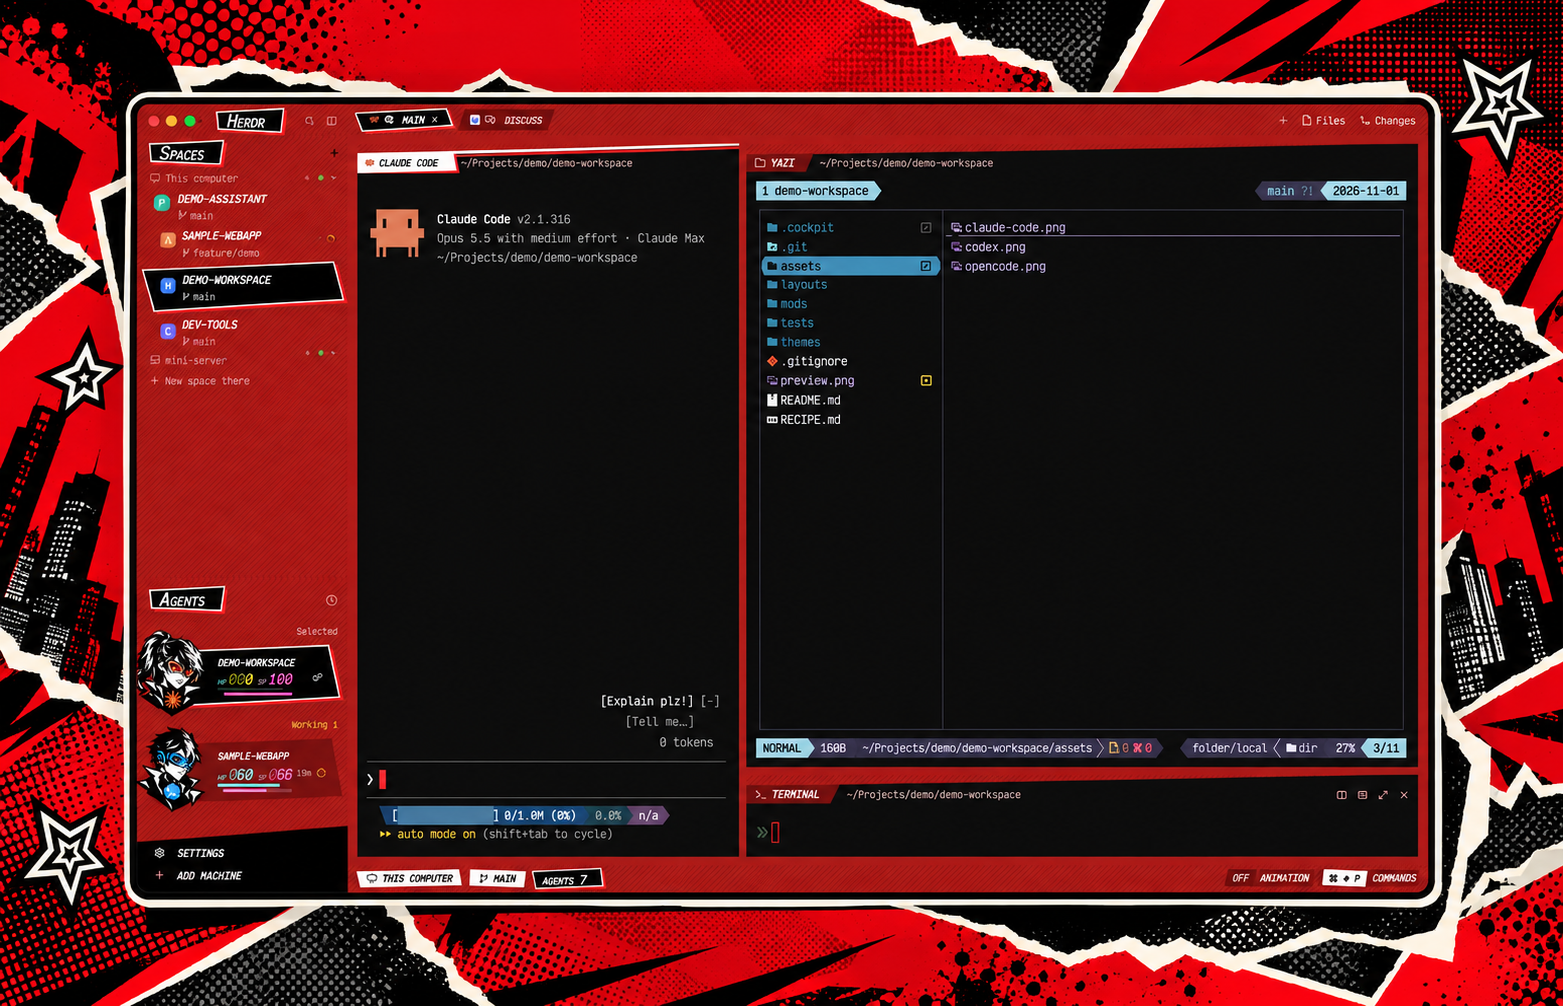
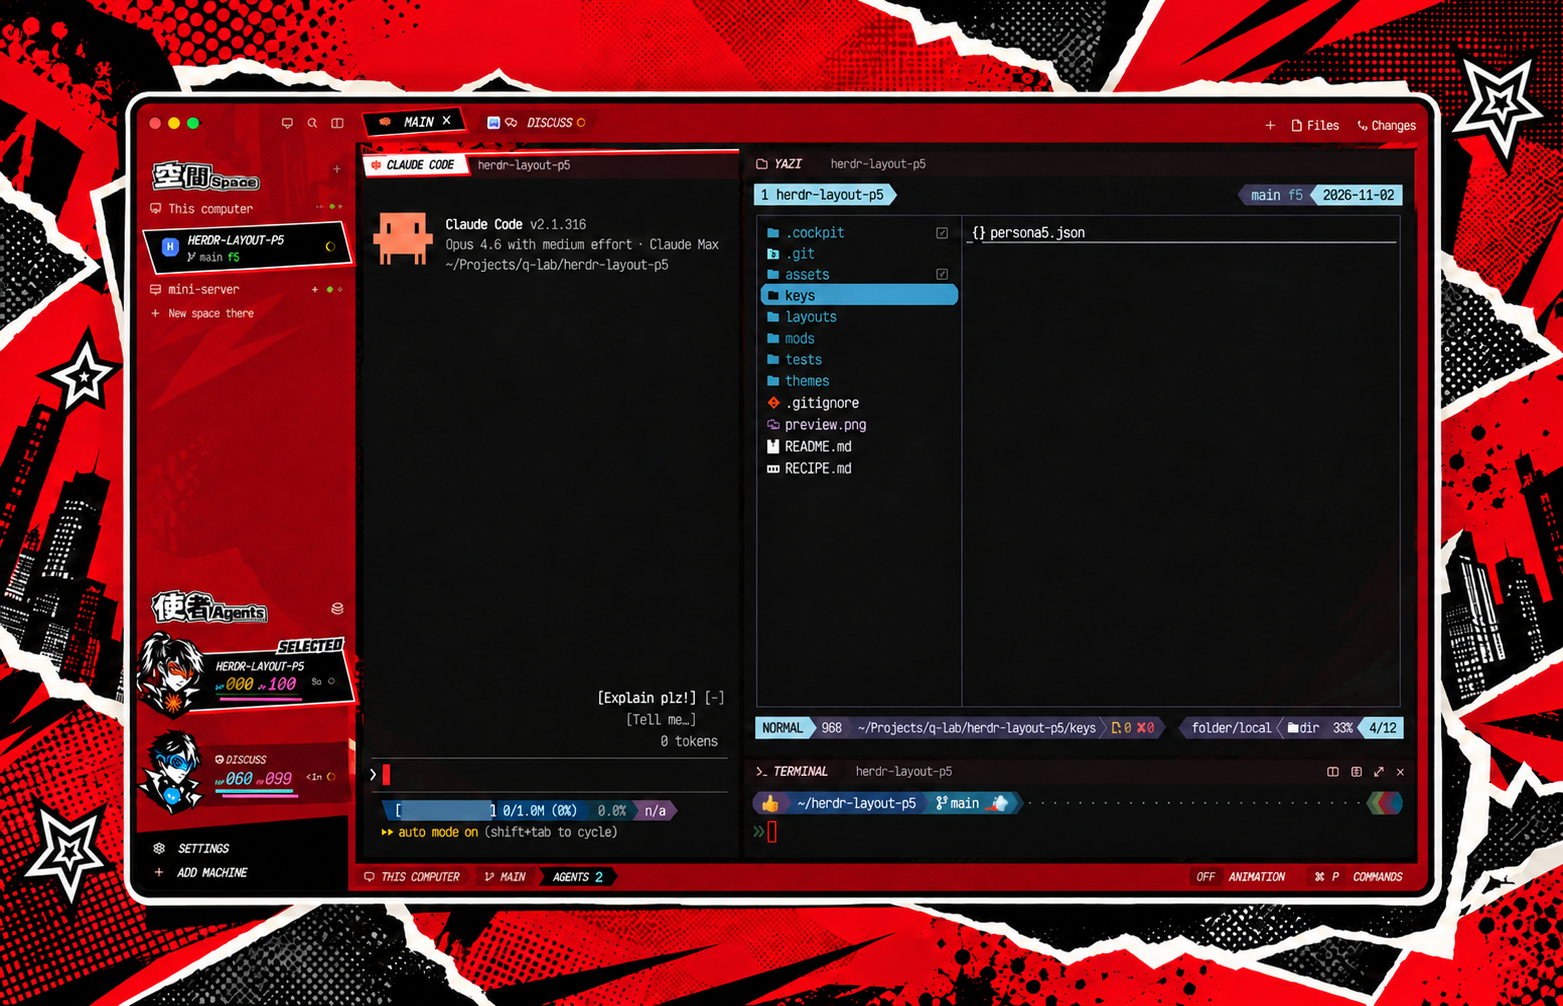
✨ adjust selected badge position in p5 agents
- Change the `selected-fold` badge offset from `.right(18)` to `.right(-8)` in `mods/p5-agents/main.js`
- Update `preview.png` to reflect the new layout

---

已調整 p5-agents 模組中選取標記（selected-fold）的水平位置，並更新預覽圖。

Changed region(s): [[0.0, 0.0, 1.0, 1.0]]

diff --git a/mods/p5-agents/main.js b/mods/p5-agents/main.js
@@ -754,7 +754,7 @@ export default class Agents extends View {
                 .id(`selected-fold-${a.address}`)
                 .absolute()
                 .top(-16)
-                .right(18)
+                .right(-8)
                 .w(95)
                 .h(38)
                 .child(image("mods/p5-agents/selected.png").size_full())
